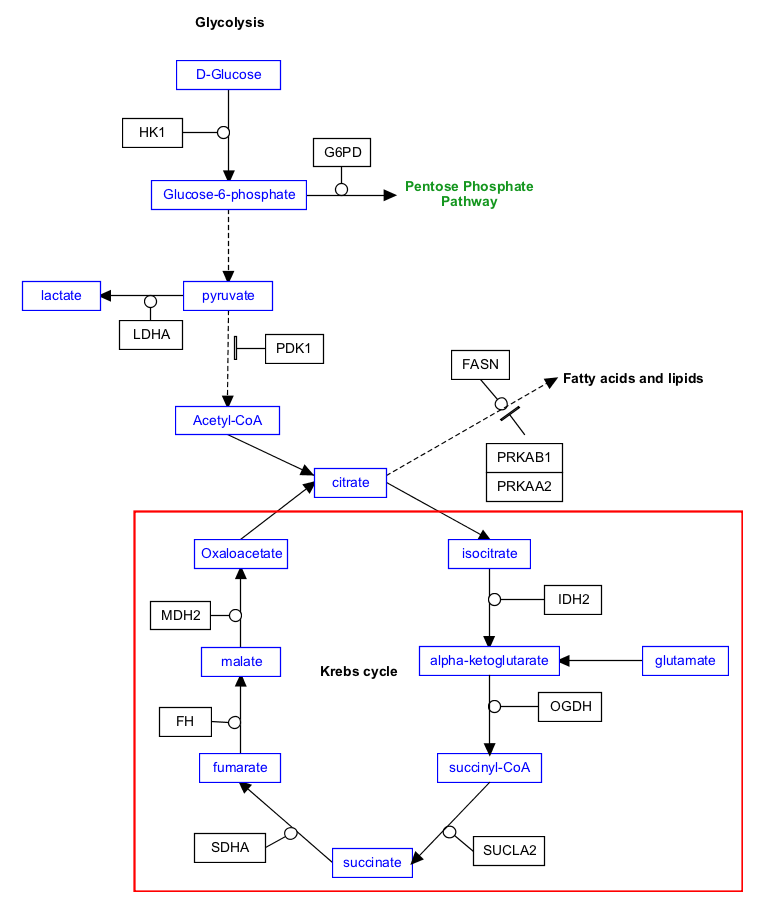
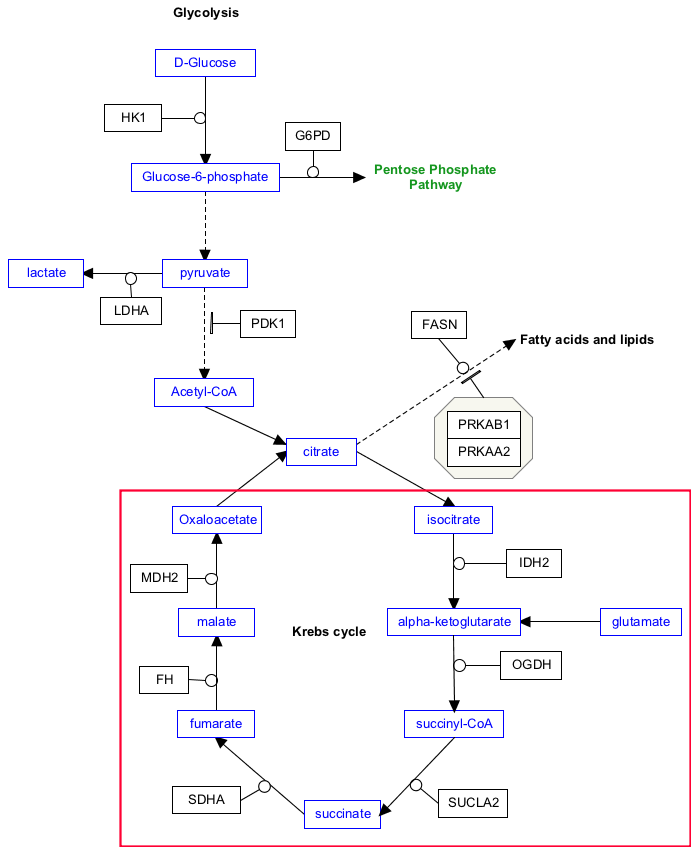
updates images and corresponding gpmls

diff --git a/stages/fig-met-1-last/index.html b/stages/fig-met-1-last/index.html
@@ -60,7 +60,7 @@
                 <li>Starting at the top of the pathway, make sure the first 4 metabolites are aligned</li>
                 <li>Similarly, align the three sets of metabolites on each side of the Krebs cycle</li>
                 <li>Make sure each data node size is adjusted so that the text label is readable</li>
-		      <h4>Final checklist</h4>>
+		      <h4>Final checklist</h4>
                 <li>Did you indicate the correct species? Highlight the Pathway Information area in the top left and
                 review the Species entry in the Properties tab. It should be Homo sapiens.</li>
                 <li>Do all data nodes have the correct database references? For each datanode, select it and review the Backpage

diff --git a/stages/fig-met-1-third/index.html b/stages/fig-met-1-third/index.html
@@ -60,7 +60,7 @@
                 <li>Add a bolded label for "Fatty acids and lipids"</li>
                 <li>Draw the conversion arrows between the nodes, and add anchors to the indirect arrow</li>
                 <li>Add the gene product, FASN, and the catalysis interaction</li>
-                <li>Add two gene products, PRKAB1 and PRKAA2, and group them to represent the complex called AMPK</li>
+                <li>Add two gene products, PRKAB1 and PRKAA2, and create a complex composed of the two nodes</li>
                 <li>Add the inhibition arrow from the complex to the indirect interaction</li>
                 <li>Done!</li>
               </ul>
